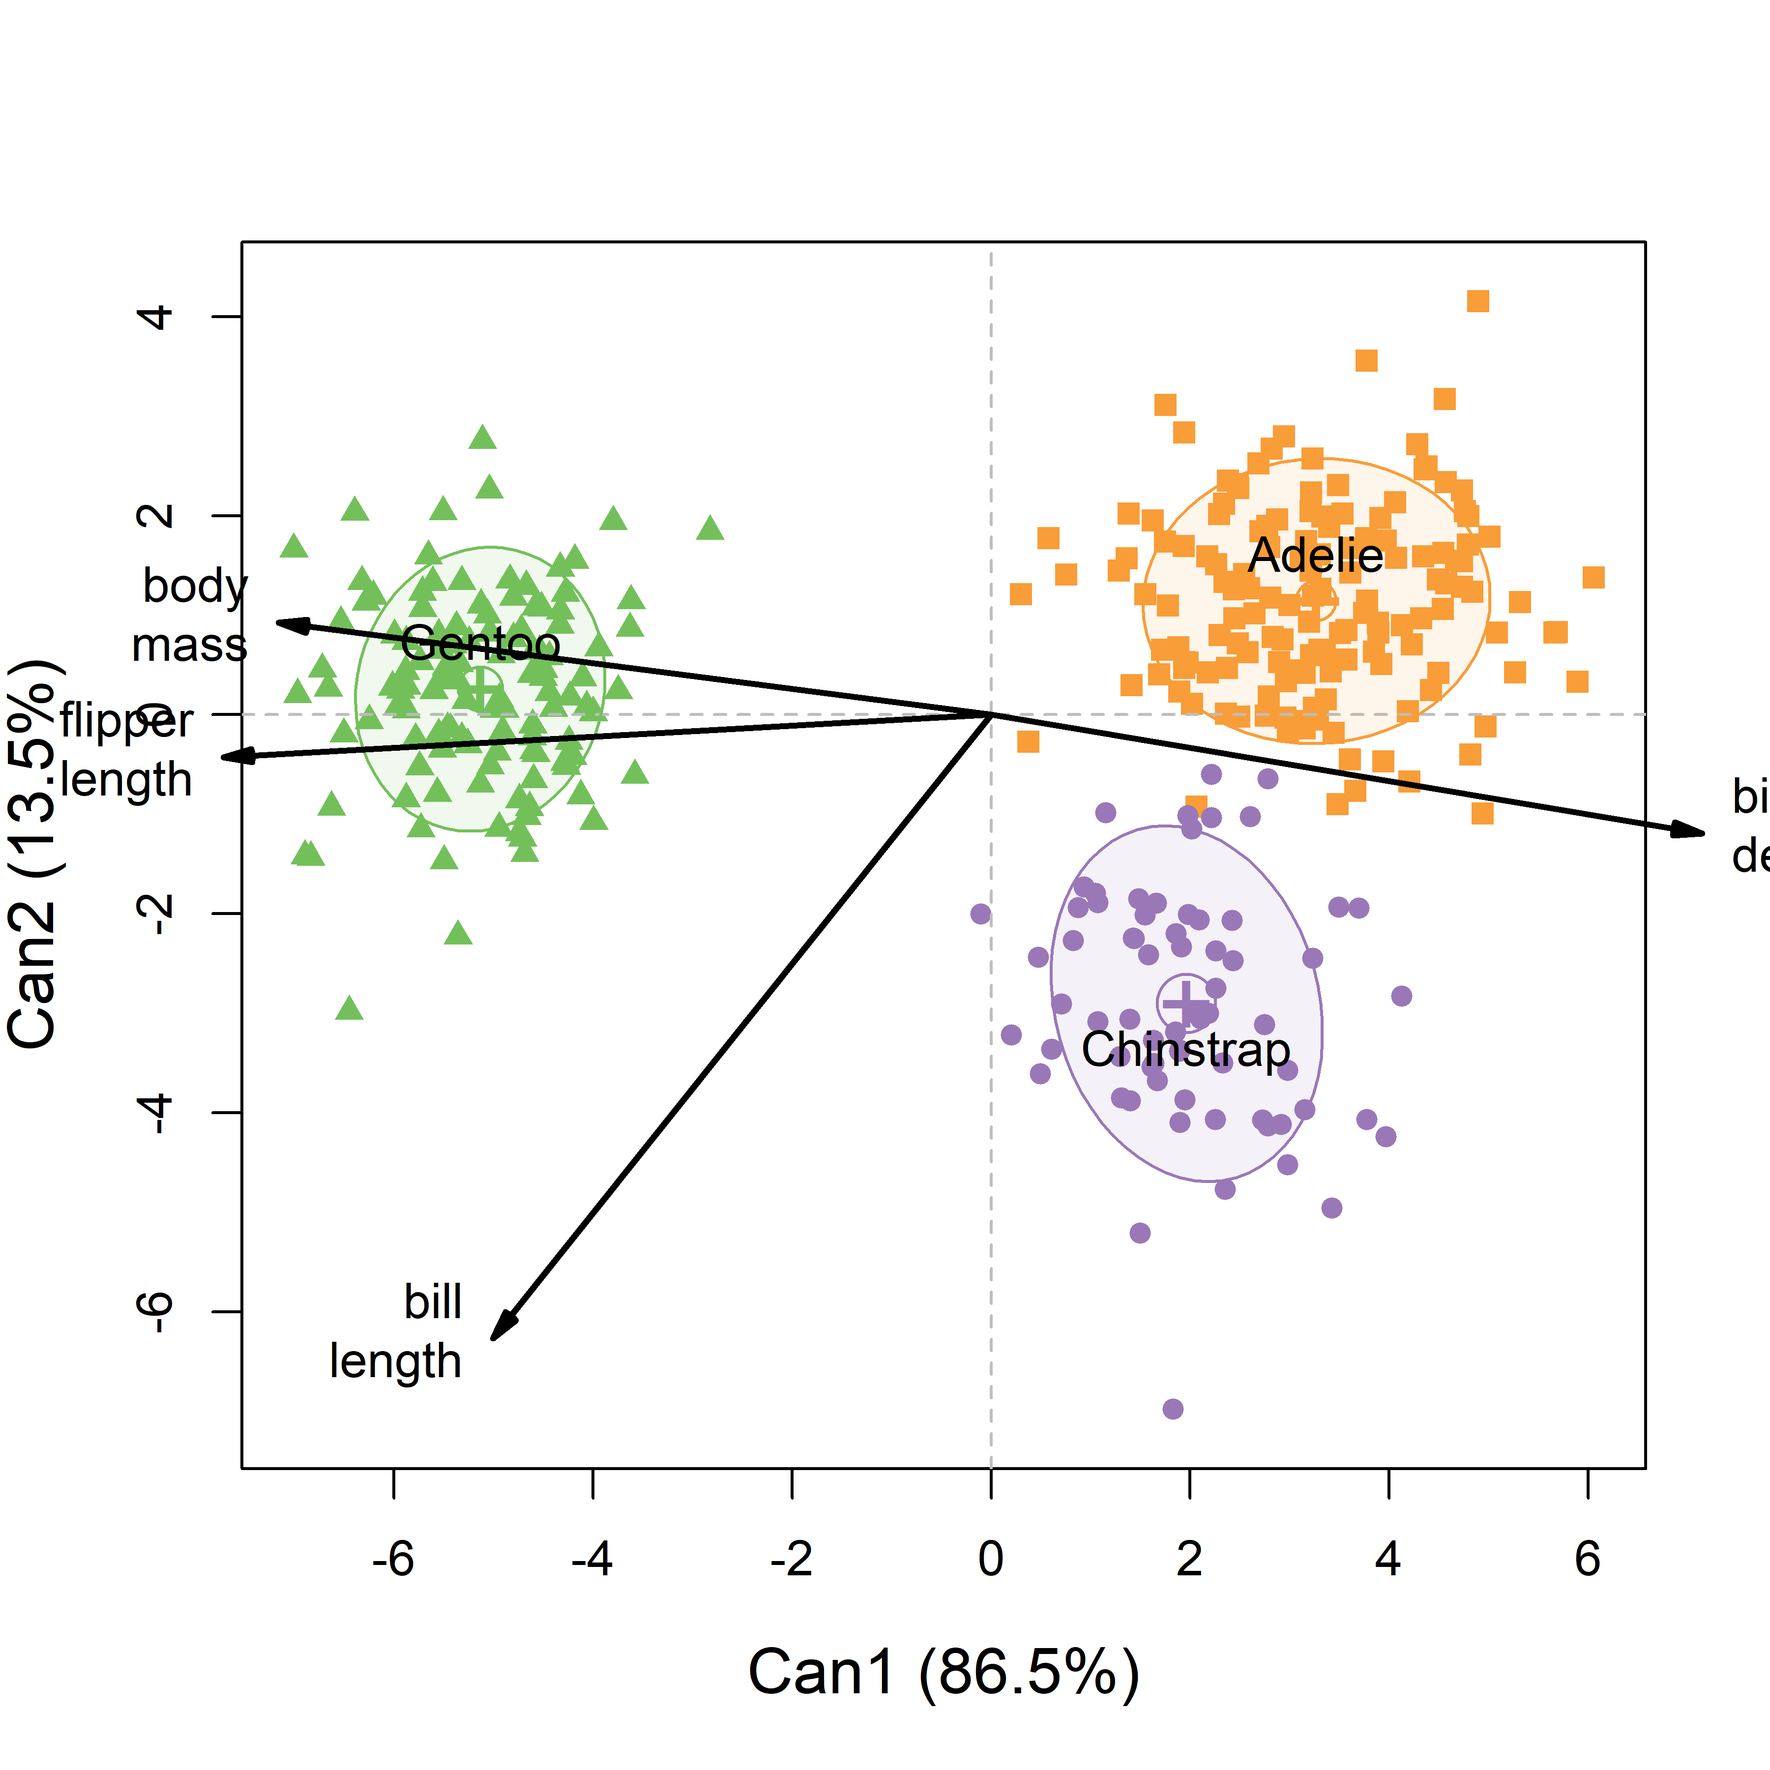
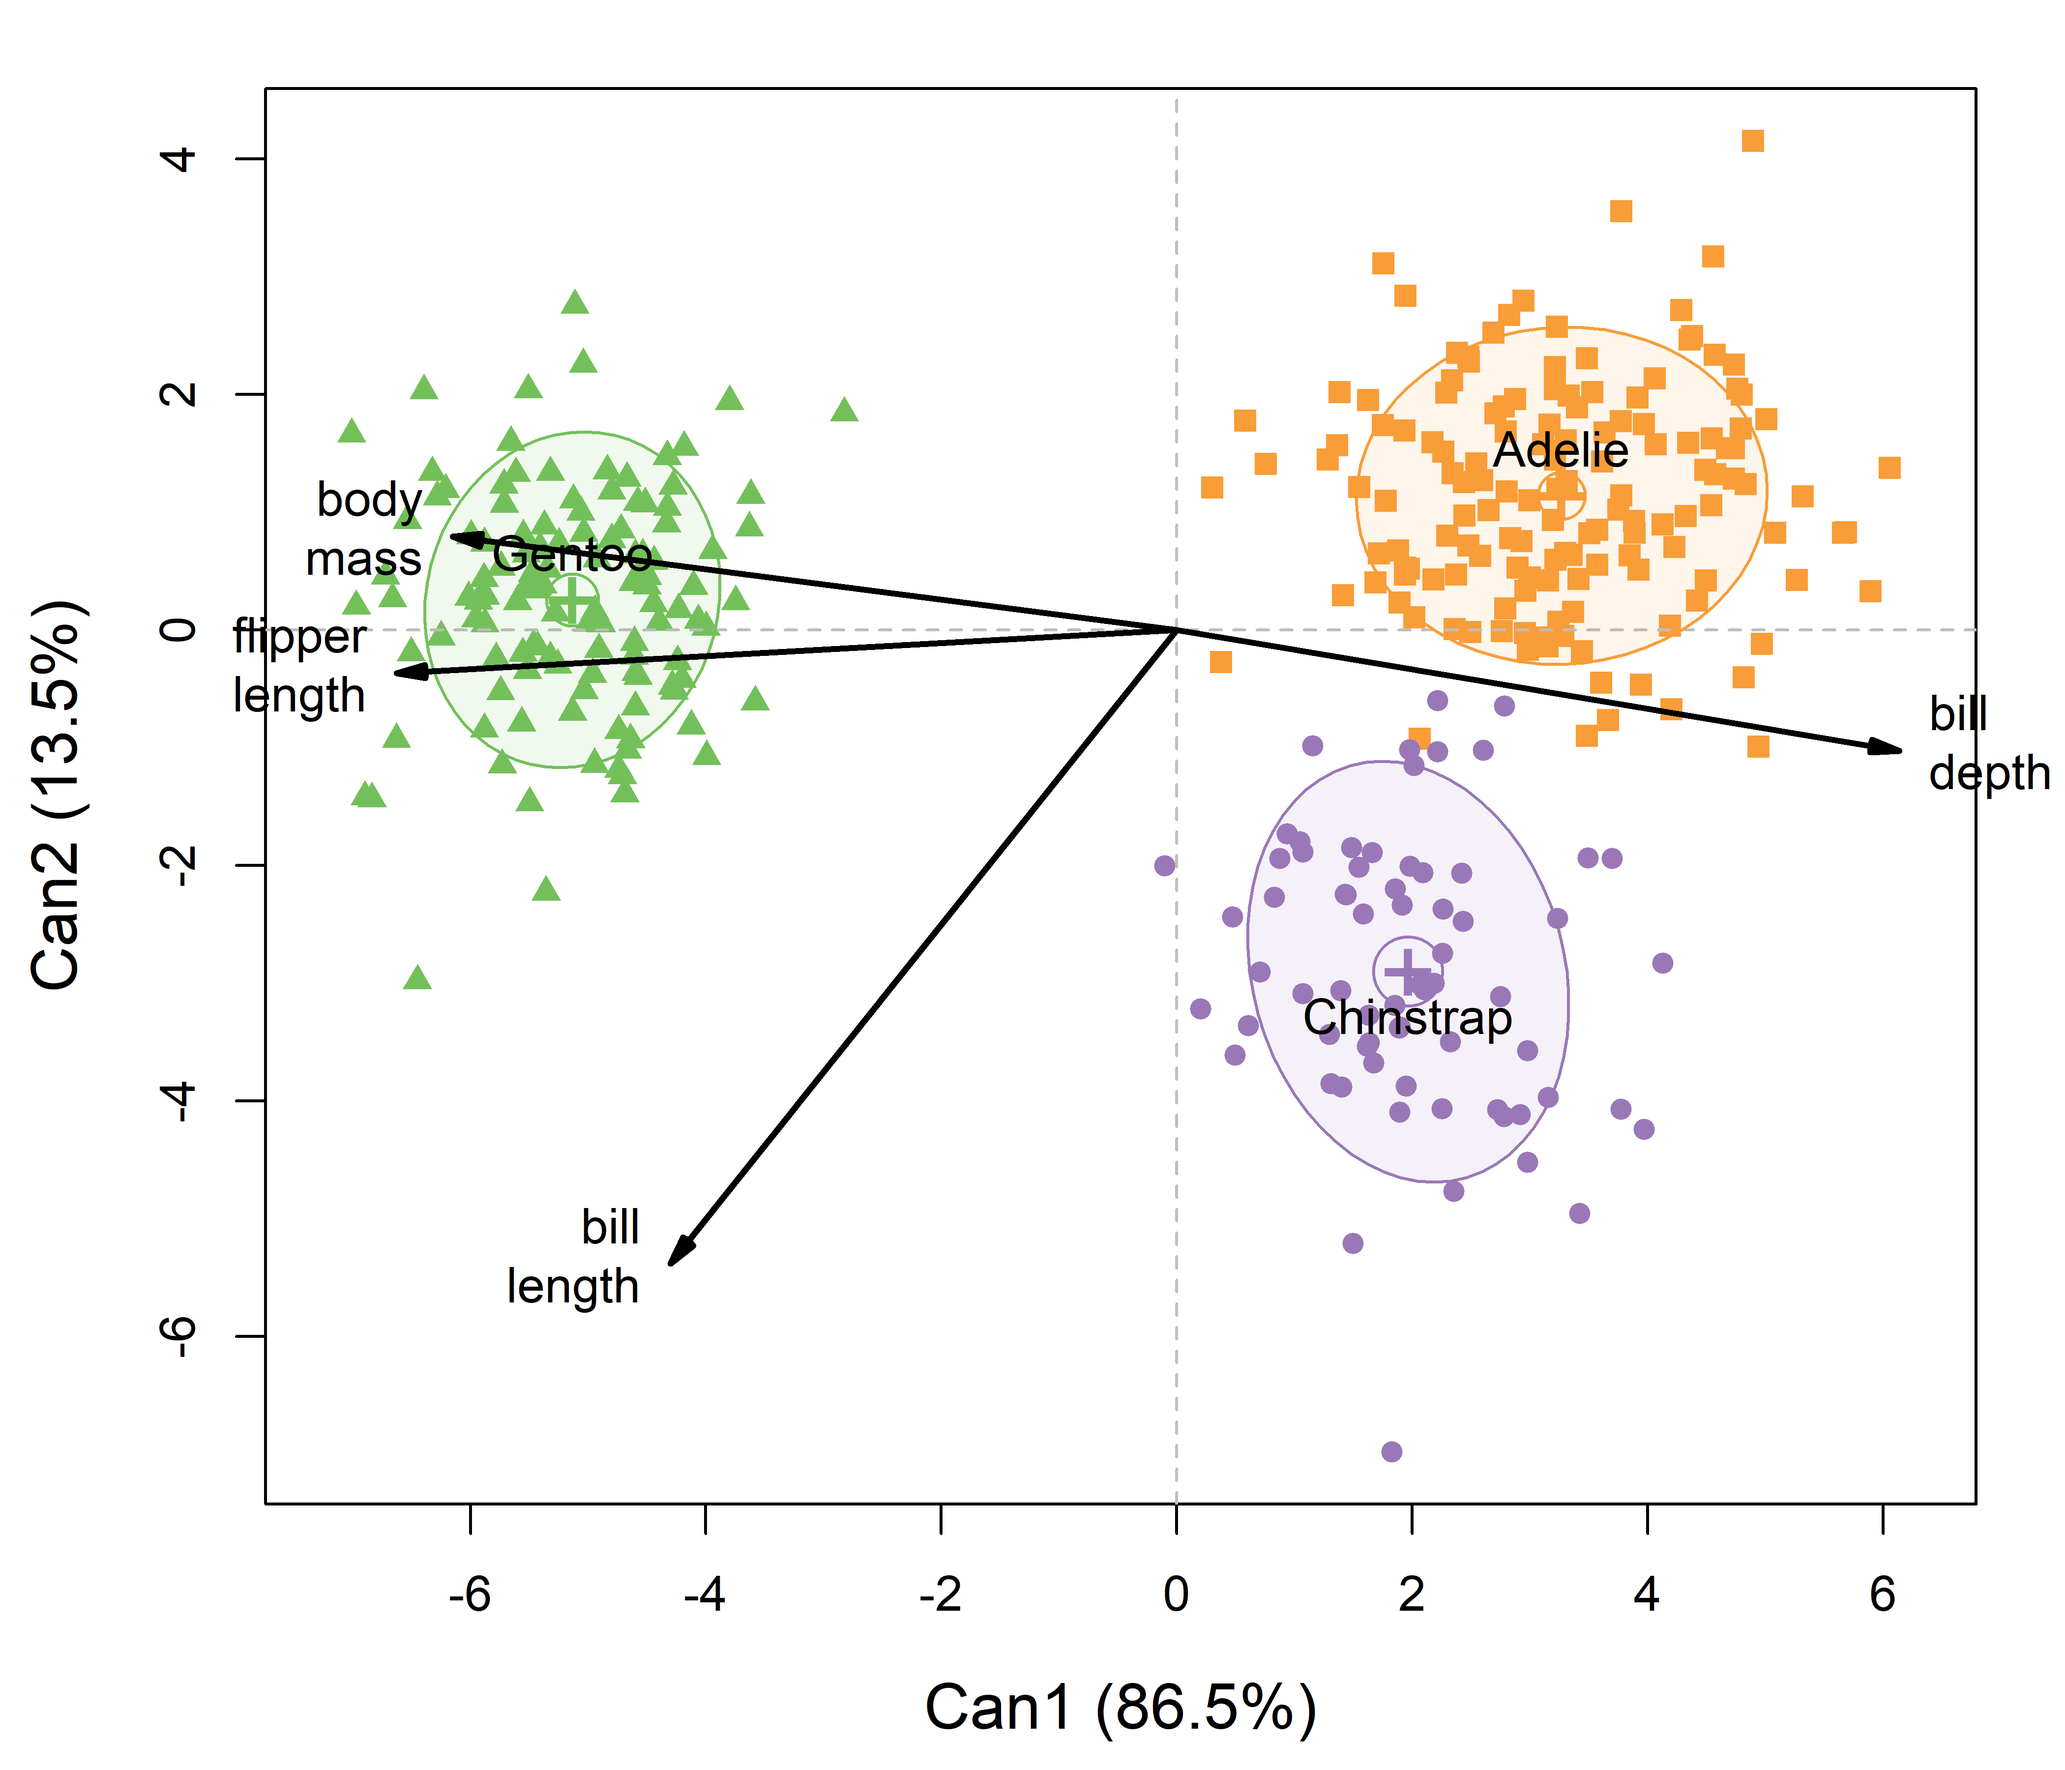
add canonical HE plot

diff --git a/child/10-discrim.html b/child/10-discrim.html
@@ -649,7 +649,7 @@ Figure&nbsp;6: Plot of the Penguin data in discriminant space showing the predic
 </div>
 <section id="adding-variable-vectors-lda-biplot" class="level4">
 <h4 class="anchored" data-anchor-id="adding-variable-vectors-lda-biplot">Adding variable vectors: LDA biplot</h4>
-<p><a href="#fig-peng-LD-predict" class="quarto-xref">Figure&nbsp;6</a> is like a PCA plot of observation scores on the first two dimensions, but with the addition of the prediction regions for LDA. As we saw earlier (<strong>?@sec-biplot</strong>), interpretation of such dimension reduction plots is considerably enhanced by drawing vectors, whose orientation (angles) with respect to the axes reflect the correlations of the <em>observed</em> variables <span class="math inline">\(\mathbf{y}_1, \mathbf{y}_2, \dots\)</span> to what is shown in the plot. The relative lengths of these vectors reflect their contributions.</p>
+<p><a href="#fig-peng-LD-predict" class="quarto-xref">Figure&nbsp;6</a> is like a PCA plot of observation scores on the first two dimensions, but with the addition of the prediction regions for LDA. As we saw earlier (<strong>?@sec-biplot</strong>), interpretation of such dimension reduction plots is considerably enhanced by drawing vectors, whose orientation (angles) with respect to the axes reflect the relations of the <em>observed</em> variables <span class="math inline">\(\mathbf{y}_1, \mathbf{y}_2, \dots\)</span> to what is shown in the plot. The relative lengths of these vectors reflect their contributions.</p>
 <p>In the result of <code>lda()</code> the weights for the observed variable are given in the <code>scaling</code> component, which is a matrix. For use with <code>ggplot()</code>, this must be converted to a <code>data.frame</code>, and the row names of the observed variables must be made into an explicit variable. To take less space in the plot, the underline (<code>_</code>) is replaced by a newline (<code>\n</code>).</p>
 <div class="cell" data-layout-align="center">
 <div class="sourceCode cell-code" id="cb22"><pre class="sourceCode r code-with-copy"><code class="sourceCode r"><span id="cb22-1"><a href="#cb22-1" aria-hidden="true" tabindex="-1"></a>vecs <span class="ot">&lt;-</span> peng.lda<span class="sc">$</span>scaling <span class="sc">|&gt;</span></span>
@@ -678,7 +678,7 @@ Figure&nbsp;6: Plot of the Penguin data in discriminant space showing the predic
 <img src="figs/fig-peng-LD-biplot-1.png" class="img-fluid quarto-figure quarto-figure-center figure-img" style="width:60.0%">
 </div>
 <figcaption class="quarto-float-caption-bottom quarto-float-caption quarto-float-fig" id="fig-peng-LD-biplot-caption-0ceaefa1-69ba-4598-a22c-09a6ac19f8ca">
-Figure&nbsp;7: Plot of the Penguin data in discriminant space, adding variable vectors to show the correlations of the observed variables with the discriminant dimensions.
+Figure&nbsp;7: Plot of the Penguin data in discriminant space, adding variable vectors to show the relations of the observed variables to the discriminant dimensions.
 </figcaption>
 </figure>
 </div>
@@ -712,8 +712,12 @@ Figure&nbsp;7: Plot of the Penguin data in discriminant space, adding variable v
 <span id="cb24-20"><a href="#cb24-20" aria-hidden="true" tabindex="-1"></a><span class="co"># Signif. codes:  0 '***' 0.001 '**' 0.01 '*' 0.05 '.' 0.1 ' ' 1</span></span></code><button title="Copy to Clipboard" class="code-copy-button"><i class="bi"></i></button></pre></div>
 </div>
 <p>In the table printed, the eigenvalues are the <span class="math inline">\(\lambda_i\)</span> of <span class="math inline">\(\mathbf{H}\mathbf{E}^{-1}\)</span> and their percent contributions are the same as what we saw from the discriminant analysis given by <code>lda()</code>.</p>
+<section id="canonical-discriminant-plot" class="level4">
+<h4 class="anchored" data-anchor-id="canonical-discriminant-plot">Canonical discriminant plot</h4>
 <p>The <code>plot()</code> method for a <code>"candisc"</code> object give something similar to what we saw in <a href="#fig-peng-LD-biplot" class="quarto-xref">Figure&nbsp;7</a>. In the code, <code>ellipse = TRUE</code> adds 68% data ellipses for the disciminant scores for each species, and <code>rev.axes</code> is used to reflect the directon of the horizontal axis to make it similar to <a href="#fig-peng-LD-biplot" class="quarto-xref">Figure&nbsp;7</a>. The result is shown in <a href="#fig-peng-candisc" class="quarto-xref">Figure&nbsp;8</a>.</p>
 <div class="cell" data-layout-align="center">
+<details open="" class="code-fold">
+<summary>Code</summary>
 <div class="sourceCode cell-code" id="cb25"><pre class="sourceCode r code-with-copy"><code class="sourceCode r"><span id="cb25-1"><a href="#cb25-1" aria-hidden="true" tabindex="-1"></a><span class="fu">plot</span>(peng.can,</span>
 <span id="cb25-2"><a href="#cb25-2" aria-hidden="true" tabindex="-1"></a>     <span class="at">col =</span> <span class="fu">peng.colors</span>(),</span>
 <span id="cb25-3"><a href="#cb25-3" aria-hidden="true" tabindex="-1"></a>     <span class="at">pch =</span> <span class="dv">15</span><span class="sc">:</span><span class="dv">17</span>,</span>
@@ -721,8 +725,9 @@ Figure&nbsp;7: Plot of the Penguin data in discriminant space, adding variable v
 <span id="cb25-5"><a href="#cb25-5" aria-hidden="true" tabindex="-1"></a>     <span class="at">rev.axes =</span> <span class="fu">c</span>(<span class="cn">TRUE</span>, <span class="cn">FALSE</span>),</span>
 <span id="cb25-6"><a href="#cb25-6" aria-hidden="true" tabindex="-1"></a>     <span class="at">var.labels =</span> vecs<span class="sc">$</span>label,</span>
 <span id="cb25-7"><a href="#cb25-7" aria-hidden="true" tabindex="-1"></a>     <span class="at">var.col =</span> <span class="st">"black"</span>, <span class="at">var.lwd =</span> <span class="dv">2</span>,</span>
-<span id="cb25-8"><a href="#cb25-8" aria-hidden="true" tabindex="-1"></a>     <span class="at">scale =</span> <span class="fl">8.5</span>,</span>
+<span id="cb25-8"><a href="#cb25-8" aria-hidden="true" tabindex="-1"></a>     <span class="at">scale =</span> <span class="fl">7.3</span>,</span>
 <span id="cb25-9"><a href="#cb25-9" aria-hidden="true" tabindex="-1"></a>     <span class="at">cex.lab =</span> <span class="fl">1.3</span>)</span></code><button title="Copy to Clipboard" class="code-copy-button"><i class="bi"></i></button></pre></div>
+</details>
 <div class="cell-output-display">
 <div id="fig-peng-candisc" class="quarto-float quarto-figure quarto-figure-center anchored" data-fig-align="center">
 <figure class="quarto-float quarto-float-fig figure">
@@ -736,7 +741,40 @@ Figure&nbsp;8: Canonical discriminant plot of the Penguin data for the MANOVA mo
 </div>
 </div>
 </div>
-<p>What is most apparent in <a href="#fig-peng-candisc" class="quarto-xref">Figure&nbsp;8</a> is that the horizontal axis i</p>
+<p>What is most apparent in <a href="#fig-peng-candisc" class="quarto-xref">Figure&nbsp;8</a> is that the horizontal axis is reversed relative to <a href="#fig-peng-LD-biplot" class="quarto-xref">Figure&nbsp;7</a>, with the Gentoo penguins on the left rather than the right. But that’s OK because the signs of the eigenvectors are arbitrary.</p>
+<p>A more important difference is that the relative lengths and angles of the variable vectors differ in the two plots. This is because the variable coefficients in <code>peng.lda$scaling</code> calculated by <code>lda()</code> are <em>unstandardized</em> by default, whereas the plot from <code>candisc()</code> uses standardized, <em>structure</em> coefficients (correlations). These can be compared directly among variables to assess their relative importance. In the penguin data, <code>body_mass</code> is measured in grams, while the other variables are in millimeters. You would get more similar results from <code>lda()</code> if the variables were standardized first.</p>
+</section>
+<section id="canonical-he-plot" class="level4">
+<h4 class="anchored" data-anchor-id="canonical-he-plot">Canonical HE plot</h4>
+<p>Finally, if the focus is on MANOVA, to determine whether and how the penguin species differ on these variables, you can summarize that with the canonical version of an HE plot, as shown in <a href="#fig-peng-candisc-HE" class="quarto-xref">Figure&nbsp;9</a>, which effectively substitutes the canonical <span class="math inline">\(\mathbf{H}\)</span> and <span class="math inline">\(\mathbf{E}\)</span> ellipses for the canonical scores displayed in <a href="#fig-peng-candisc" class="quarto-xref">Figure&nbsp;8</a>.</p>
+<p>This is shown using effect scaling (<strong>?@sec-signif-scaling</strong>) because the differences among the groups (<span class="math inline">\(\mathbf{H}\)</span>) are so large relative to within group variation (<span class="math inline">\(\mathbf{E}\)</span>). The <span class="math inline">\(\mathbf{E}\)</span> ellipse plots as a circle because the canonical scores are uncorrelated with variances of 1.</p>
+<div class="cell" data-layout-align="center">
+<details open="" class="code-fold">
+<summary>Code</summary>
+<div class="sourceCode cell-code" id="cb26"><pre class="sourceCode r code-with-copy"><code class="sourceCode r"><span id="cb26-1"><a href="#cb26-1" aria-hidden="true" tabindex="-1"></a><span class="fu">heplot</span>(peng.can, </span>
+<span id="cb26-2"><a href="#cb26-2" aria-hidden="true" tabindex="-1"></a>       <span class="at">size=</span><span class="st">"effect"</span>, </span>
+<span id="cb26-3"><a href="#cb26-3" aria-hidden="true" tabindex="-1"></a>       <span class="at">fill=</span><span class="fu">c</span>(<span class="cn">TRUE</span>, <span class="cn">FALSE</span>), <span class="at">fill.alpha =</span> <span class="fl">0.1</span>,</span>
+<span id="cb26-4"><a href="#cb26-4" aria-hidden="true" tabindex="-1"></a>       <span class="at">rev.axes =</span> <span class="fu">c</span>(<span class="cn">TRUE</span>, <span class="cn">FALSE</span>),</span>
+<span id="cb26-5"><a href="#cb26-5" aria-hidden="true" tabindex="-1"></a>       <span class="at">var.labels =</span> vecs<span class="sc">$</span>label,</span>
+<span id="cb26-6"><a href="#cb26-6" aria-hidden="true" tabindex="-1"></a>       <span class="at">var.col =</span> <span class="st">"black"</span>, <span class="at">var.lwd =</span> <span class="dv">2</span>,</span>
+<span id="cb26-7"><a href="#cb26-7" aria-hidden="true" tabindex="-1"></a>       <span class="at">xlim =</span> <span class="fu">c</span>(<span class="sc">-</span><span class="dv">8</span>, <span class="dv">8</span>), <span class="at">ylim =</span> <span class="fu">c</span>(<span class="sc">-</span><span class="dv">8</span>, <span class="dv">4</span>),</span>
+<span id="cb26-8"><a href="#cb26-8" aria-hidden="true" tabindex="-1"></a>       <span class="at">scale =</span> <span class="fl">8.2</span>,</span>
+<span id="cb26-9"><a href="#cb26-9" aria-hidden="true" tabindex="-1"></a>       <span class="at">cex.lab =</span> <span class="fl">1.3</span>, <span class="at">cex =</span> <span class="fl">1.3</span>)</span></code><button title="Copy to Clipboard" class="code-copy-button"><i class="bi"></i></button></pre></div>
+</details>
+<div class="cell-output-display">
+<div id="fig-peng-candisc-HE" class="quarto-float quarto-figure quarto-figure-center anchored" data-fig-align="center">
+<figure class="quarto-float quarto-float-fig figure">
+<div aria-describedby="fig-peng-candisc-HE-caption-0ceaefa1-69ba-4598-a22c-09a6ac19f8ca">
+<img src="figs/fig-peng-candisc-HE-1.png" class="img-fluid quarto-figure quarto-figure-center figure-img" style="width:60.0%">
+</div>
+<figcaption class="quarto-float-caption-bottom quarto-float-caption quarto-float-fig" id="fig-peng-candisc-HE-caption-0ceaefa1-69ba-4598-a22c-09a6ac19f8ca">
+Figure&nbsp;9: Canonical discriminant HE plot of the Penguin data for the MANOVA model <code>peng.mlm</code>.
+</figcaption>
+</figure>
+</div>
+</div>
+</div>
+</section>
 </section>
 </section>
 
